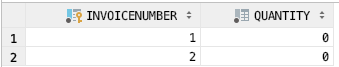
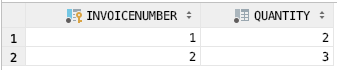
jezu te zadania sprawiaja mi fizyczyny ból

diff --git a/lab3/src/main/java/lab3/App.java b/lab3/src/main/java/lab3/App.java
@@ -21,8 +21,8 @@ public class App {
             Product p3 = new Product("Ryby", 5);
             Product p4 = new Product("Klocki", 5);
 
-            Invoice i1 = new Invoice();
-            Invoice i2 = new Invoice();
+            Invoice i1 = new Invoice(2);
+            Invoice i2 = new Invoice(3);
 
             i1.getProducts().add(p1);
             p1.getInvoices().add(i1);
